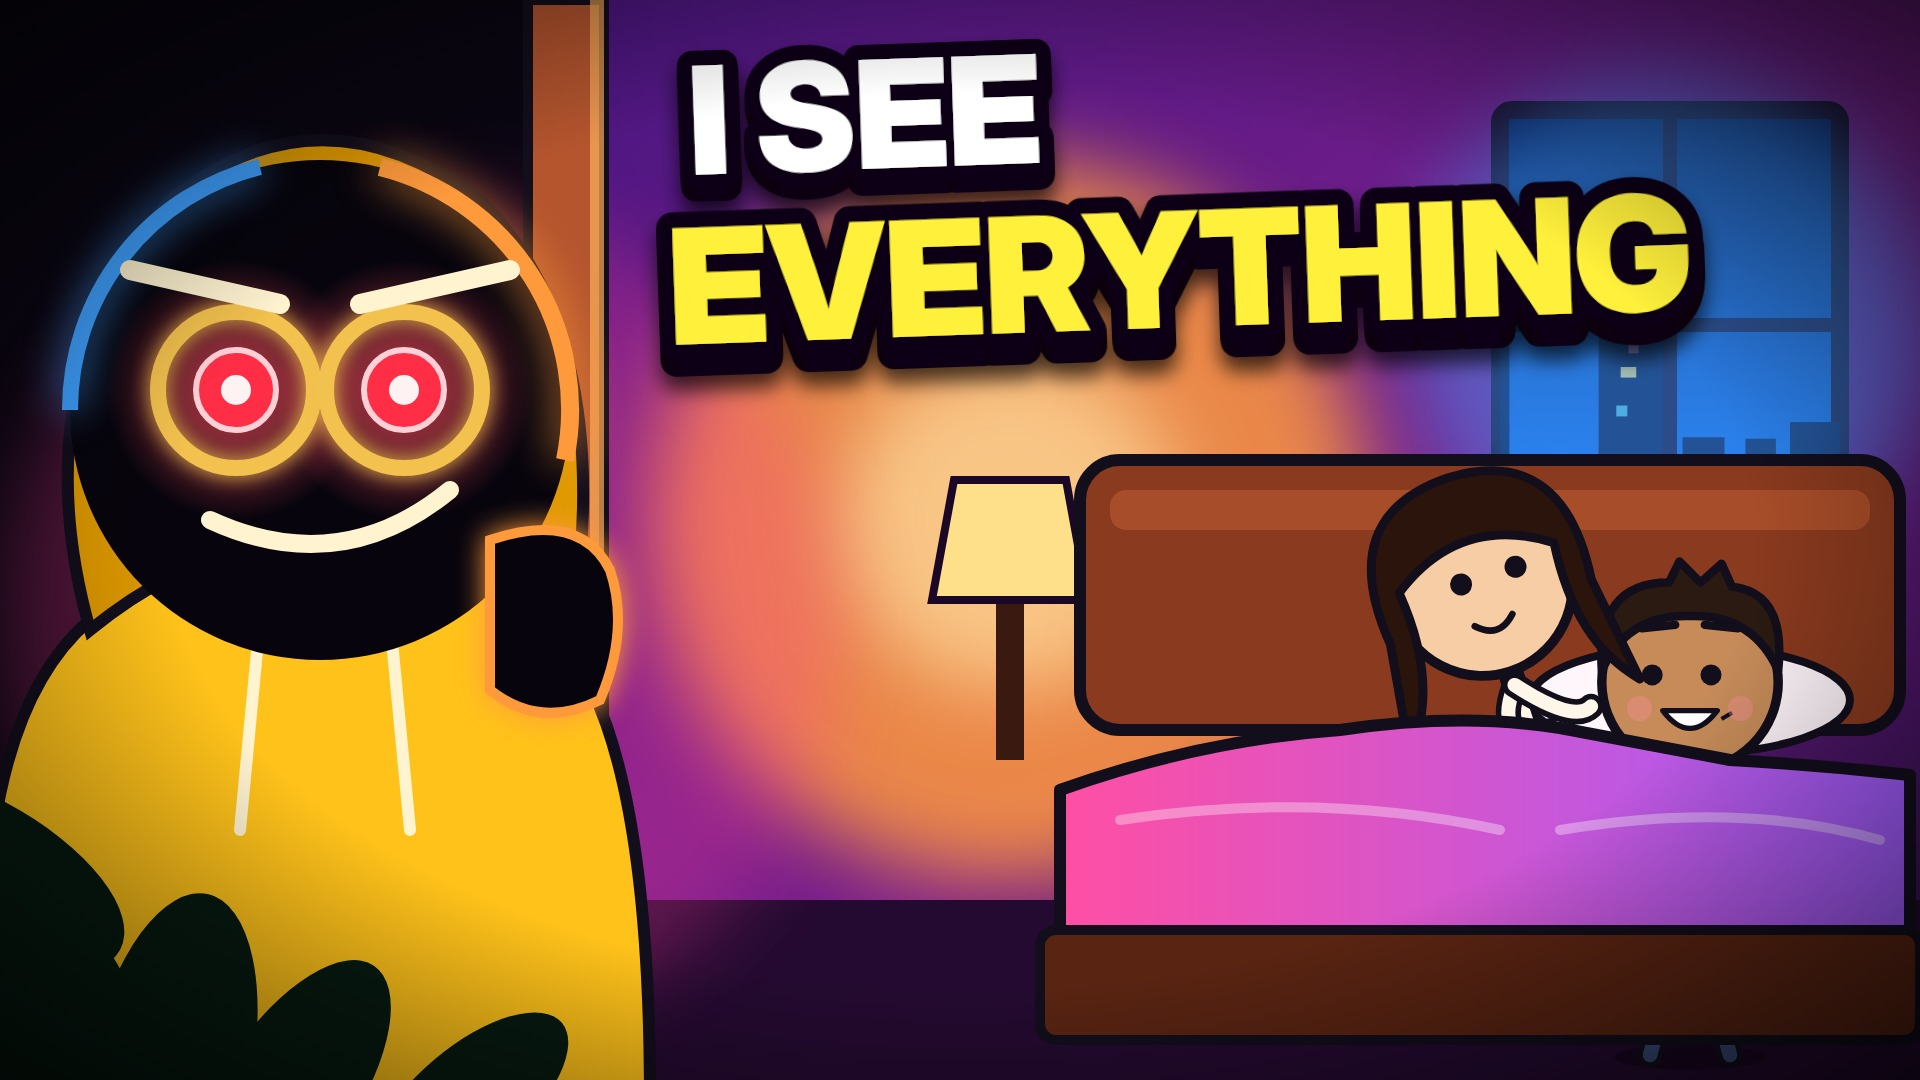
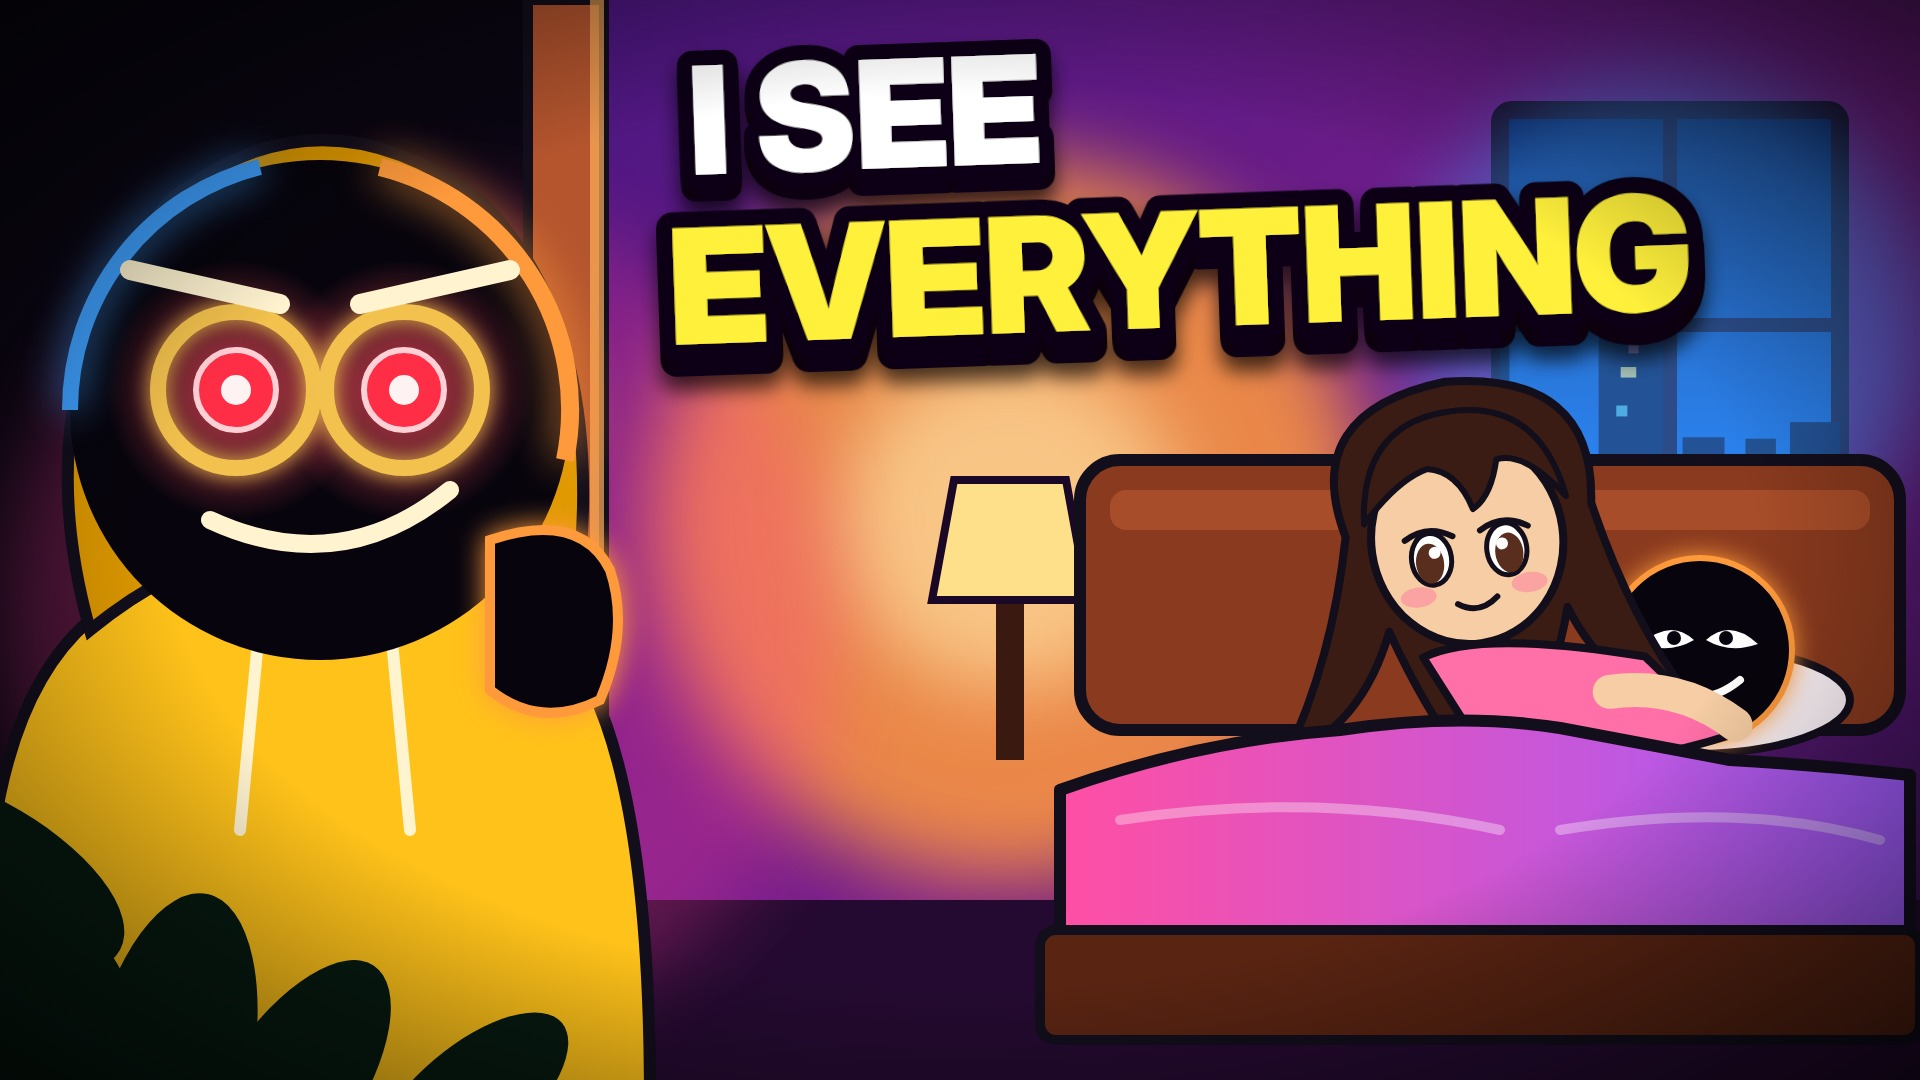
016 peek thumbnail: anime-style girl and shadow stickman like the reference
Claude-Session: https://claude.ai/code/session_019ai2m2MxcJnxMHWqzPuaSF

Changed region(s): [[0.6562, 0.3361, 0.9375, 0.7028]]

diff --git a/episodes/016-invisible/thumb4.html b/episodes/016-invisible/thumb4.html
@@ -23,8 +23,25 @@ const th_bed=`
  <rect x="1080" y="460" width="820" height="270" rx="40" fill="#8A3A1E" stroke="${INK}" stroke-width="12"/>
  <rect x="1110" y="490" width="760" height="40" rx="16" fill="#B5552E" opacity=".7"/>
  <ellipse cx="1690" cy="700" rx="160" ry="54" fill="#FFF6FB" stroke="${INK}" stroke-width="8"/>
- ${person({x:1690,y:740,s:1.05,t:0,who:'kai',pose:'down',mouth:'grin',brows:'raised',look:-1})}
- <g transform="translate(1500,640) rotate(-18)">${extra({x:0,y:0,s:1.1,t:0,head:'#F6CDA4',mouth:'smile',pose:'hold',hair:th_hair,look:1})}</g>
+
+ <!-- him: black shadow stickman with white sneaky eyes, lying on the pillow -->
+ <g transform="translate(1700,650)">
+  <circle r="92" fill="#07040D" stroke="${W_}" stroke-width="6" style="filter:drop-shadow(0 0 12px ${W_})"/>
+  <path d="M-58 -6 Q-30 -32 -6 -10 Q-30 4 -58 -6Z M58 -6 Q30 -32 6 -10 Q30 4 58 -6Z" fill="#fff"/>
+  <circle cx="-26" cy="-12" r="7" fill="#07040D"/><circle cx="26" cy="-12" r="7" fill="#07040D"/>
+  <path d="M-30 40 Q6 58 40 30" stroke="#fff" stroke-width="8" fill="none" stroke-linecap="round"/>
+ </g>
+ <!-- her: anime style, long flowing hair, leaning over him on her elbows -->
+ <g transform="translate(1470,560) rotate(-8)">
+  <path d="M-120 -40 Q-150 -170 0 -180 Q150 -170 128 -40 Q150 80 200 170 Q120 150 90 60 Q60 160 -20 220 Q-60 160 -90 60 Q-130 150 -210 170 Q-150 80 -120 -40Z" fill="#3A1C14" stroke="${INK}" stroke-width="8" stroke-linejoin="round"/>
+  <path d="M-60 90 Q0 70 160 120 L230 210 Q120 230 -10 200Z" fill="#FF6FA8" stroke="${INK}" stroke-width="8" stroke-linejoin="round"/>
+  <path d="M120 150 Q190 150 240 200" stroke="#F6CDA4" stroke-width="34" fill="none" stroke-linecap="round"/><path d="M120 150 Q190 150 240 200" stroke="${INK}" stroke-width="44" fill="none" stroke-linecap="round" opacity="0"/>
+  <ellipse cx="0" cy="-20" rx="96" ry="104" fill="#F6CDA4" stroke="${INK}" stroke-width="8"/>
+  <path d="M-100 -50 Q-90 -150 0 -150 Q90 -150 104 -50 Q70 -100 40 -96 Q30 -60 10 -50 Q0 -90 -30 -96 Q-60 -90 -100 -50Z" fill="#3A1C14" stroke="${INK}" stroke-width="6" stroke-linejoin="round"/>
+  ${[-1,1].map(d=>`<g transform="translate(${d*38},-6)"><ellipse rx="20" ry="26" fill="#fff" stroke="${INK}" stroke-width="5"/><ellipse cx="${d*2}" cy="4" rx="14" ry="20" fill="#5A2E1E"/><circle cx="${d*-4}" cy="-6" r="6" fill="#fff"/><path d="M-24 -22 Q0 -36 24 -20" stroke="${INK}" stroke-width="6" fill="none" stroke-linecap="round"/></g>`).join('')}
+  <ellipse cx="-56" cy="30" rx="18" ry="10" fill="#FF7FA0" opacity=".55"/><ellipse cx="56" cy="30" rx="18" ry="10" fill="#FF7FA0" opacity=".55"/>
+  <path d="M-18 42 Q2 56 22 40" stroke="${INK}" stroke-width="6" fill="none" stroke-linecap="round"/>
+ </g>
  <path d="M1060 790 Q1200 740 1340 730 Q1460 712 1560 728 Q1650 745 1730 760 Q1820 765 1910 775 L1910 960 L1060 960Z" fill="url(#thSheet)" stroke="${INK}" stroke-width="12" stroke-linejoin="round"/>
  <path d="M1120 820 Q1320 790 1500 830 M1560 830 Q1740 800 1880 840" stroke="#FFFFFF" stroke-opacity=".35" stroke-width="10" fill="none" stroke-linecap="round"/>
  <rect x="1040" y="930" width="880" height="110" rx="16" fill="#5A2412" stroke="${INK}" stroke-width="10"/>`;
